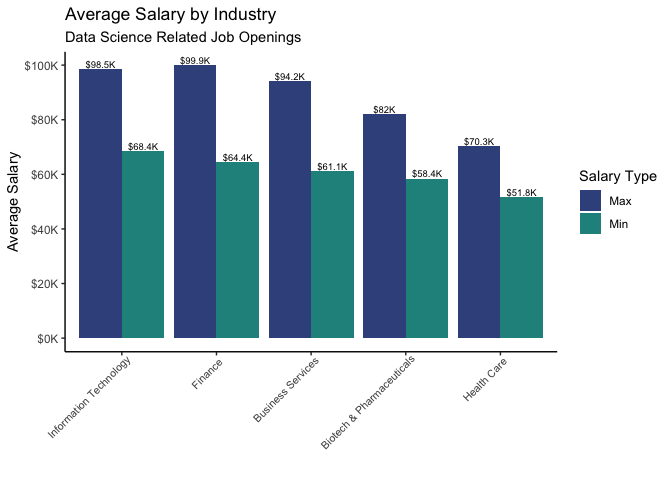
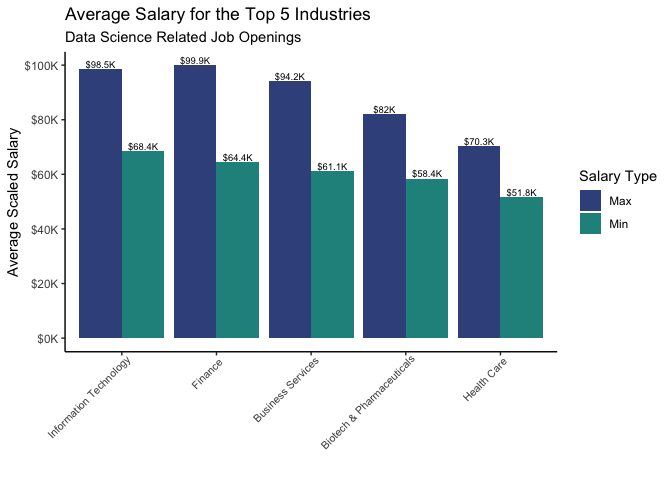
fixed graph titles and labels

Changed region(s): [[0.2812, 0.0, 0.5625, 0.0625], [0.0, 0.25, 0.0312, 0.5938]]

diff --git a/EDA/salary_job_category_industry.md b/EDA/salary_job_category_industry.md
@@ -27,8 +27,8 @@ salary_data_loc <- df %>% pivot_longer(
 
 p <- ggplot(salary_data_loc, aes(x = reorder(metro_location, -salary), y = salary, fill = type)) 
 p + geom_bar(stat = "identity", position = 'dodge')+
-    labs(title = "Salary by location",
-         subtitle = "Salary for data science related job posting in various locations.",
+    labs(title = "Average Salary for Data Science Jobs",
+         subtitle = "Glassdoor Job Postings by Metro Area",
        x = "",
        y = "Average Salary") +
     scale_fill_viridis(discrete = TRUE, begin = 0.25, end = 0.5, name = "Salary Type",
@@ -206,7 +206,7 @@ mean_salary_jc <- scaled_salary_data_jc_related %>% group_by(type, job_category)
 scaled_salary_data_jc_related %>% ggplot(aes(x = salary, fill = type)) +
   geom_density(alpha = 0.60) +
   labs(
-    title = "Salary by Job Category",
+    title = "Distribution of Scaled Salary for Data Science Roles",
     x = "Scaled Salary",
     y = "Density") +
   scale_x_continuous(
@@ -240,10 +240,10 @@ jc_avg_salary_related <- jc_avg_salary_long %>%
 jc_avg_salary_related %>% ggplot(aes(x = reorder(job_category, -salary), y = salary ,fill = type)) +
   geom_bar(stat = "identity", position = 'dodge') +
   labs(
-    title = "Average Salary by Job Category",
-    subtitle = "Data Science Related Job Openings",
+    title = "Salary for Data Science Roles",
+    subtitle = "Glassdoor Job Openings",
     x = "",
-    y = "Average Salary") +
+    y = "Average Scaled Salary") +
 scale_fill_viridis(discrete = TRUE, begin = 0.25, end = 0.5, name = "Salary Type",
                      labels = c("Max", "Min")) + 
   scale_y_continuous(
@@ -307,7 +307,7 @@ mean_salary_ji <- scaled_salary_data_ji %>% group_by(type, industry) %>%
 scaled_salary_data_ji %>% ggplot(aes(x = salary, fill = type)) +
   geom_density(alpha = 0.6) +
   labs(
-    title = "Salary by Job Industry",
+    title = "Distribution of Scaled Salary for Top 5 Industries",
     x = "Scaled Salary",
     y = "Density") +
   scale_x_continuous(
@@ -358,10 +358,10 @@ ji_avg_salary_long_related <- ji_avg_salary_long %>%
 ji_avg_salary_long_related %>% ggplot(aes(x = reorder(industry, -salary), y = salary ,fill = type)) +
   geom_bar(stat = "identity", position = 'dodge') +
   labs(
-    title = "Average Salary by Industry",
+    title = "Average Salary for the Top 5 Industries",
     subtitle = "Data Science Related Job Openings",
     x = "",
-    y = "Average Salary") +
+    y = "Average Scaled Salary") +
 scale_fill_viridis(discrete = TRUE, begin = 0.25, end = 0.5, name = "Salary Type",
                      labels = c("Max", "Min")) + 
   scale_y_continuous(
@@ -486,7 +486,7 @@ sf_avg_salary_long %>% ggplot(aes(x = reorder(job_category, -salary), y = salary
     title = "Average Salary for Data Science Roles",
     subtitle = "San Francisco Bay Metro Area",
     x = "",
-    y = "Salary") +
+    y = "Average Salary") +
   scale_fill_viridis(discrete = TRUE, begin = 0.25, end = 0.5, name = "Salary Type",
                      labels = c("Max", "Min")) + 
   scale_y_continuous(
@@ -568,7 +568,7 @@ ji_sf_avg_long <- ji_sf_avg %>% pivot_longer(cols = c(avg_max_salary, avg_min_sa
 ji_sf_avg_long %>% ggplot(aes(x = reorder(industry, -salary), y = salary ,fill = type)) +
   geom_bar(stat = "identity", position = 'dodge') +
   labs(
-    title = "Average Salary by Industry",
+    title = "Average Salary for the Top 5 Industries",
     subtitle = "San Francisco Bay Metro Area",
     x = "",
     y = "Average Salary") +
@@ -688,7 +688,7 @@ dc_avg_salary_long %>% ggplot(aes(x = reorder(job_category, -salary), y = salary
     title = "Average Salary for Data Science Roles",
     subtitle = "Washington D.C. Metro Area",
     x = "",
-    y = "Salary") +
+    y = "Average Salary") +
   scale_fill_viridis(discrete = TRUE, begin = 0.25, end = 0.5, name = "Salary Type",
                      labels = c("Max", "Min")) + 
   scale_y_continuous(
@@ -773,7 +773,7 @@ ji_dc_avg_long <- ji_dc_avg %>% pivot_longer(cols = c(avg_max_salary, avg_min_sa
 ji_dc_avg_long %>% ggplot(aes(x = reorder(industry, -salary), y = salary ,fill = type)) +
   geom_bar(stat = "identity", position = 'dodge') +
   labs(
-    title = "Average Salary by Industry",
+    title = "Average Salary for the Top 5 Industries",
     subtitle = "Washington D.C. Metro Area",
     x = "",
     y = "Average Salary") +
